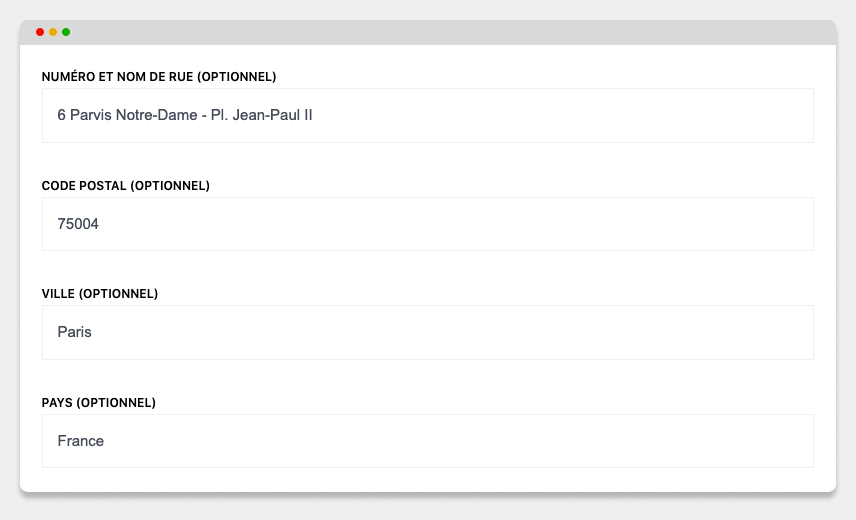
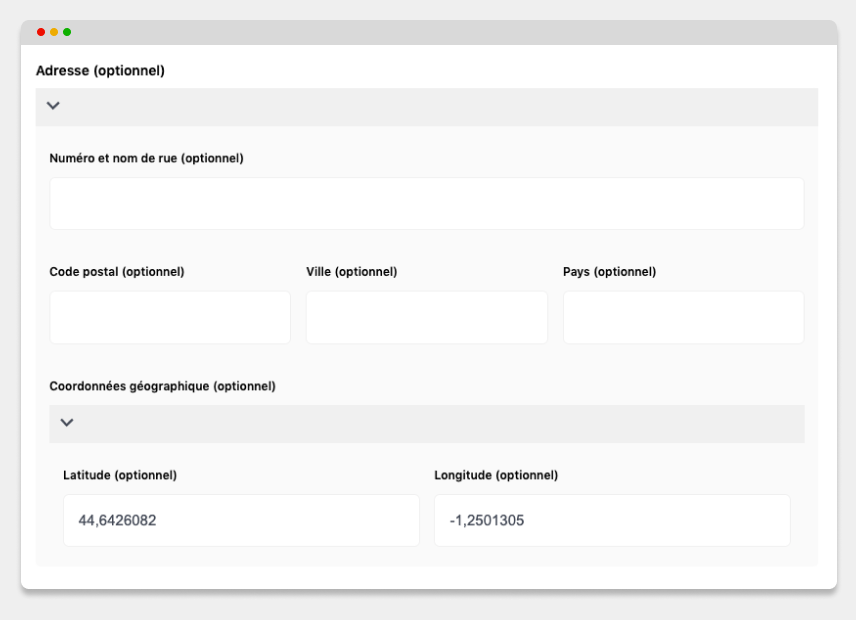
content

diff --git a/content/les-fonctionnalites/_index.md b/content/les-fonctionnalites/_index.md
@@ -2,27 +2,36 @@
 isPage: true
 draft: false
 title: Les fonctionnalités
-description: "Création du contenu : cabinets, personnes (agents, collaborateurs…), expertises métier, actualités…"
+description: "Création du contenu : agences, personnes (agents, collaborateurs…)."
 image:
   src: /images/uploads/147.Multitasking.svg
 hero:
   title: Les fonctionnalités
-  text: "Création du contenu : cabinets, personnes (agents, collaborateurs…), expertises métier, actualités…"
+  text: "Création du contenu : agences, personnes (agents, collaborateurs…)."
   image:
     src: /images/uploads/147.Multitasking.svg
 show_list: false
 blocks:
   - type: editorial
     direction: rtl
-    title: Présentation de l’agence
-    text: Lieu(x), contacts et informations.
+    title: Les annonces immobilières
+    text: Création de fiches détaillées (lieu, informations, diagnostic DPE et GES, galerie photos…).
     image:
       src: /images/uploads/174.Project.svg
     cta:
       text: En savoir plus
-      url: /les-fonctionnalites/cabinet/
+      url: /les-fonctionnalites/annonces-immobilieres/
   - type: editorial
     direction: ltr
+    title: Présentation de l’agence
+    text: Lieu(x), contacts et informations.
+    image:
+      src: /images/uploads/188.Buildings.svg
+    cta:
+      text: En savoir plus
+      url: /les-fonctionnalites/agence/
+  - type: editorial
+    direction: rtl
     title: Présentation de l’équipe
     text: Vous avez la possibilité de présenter chacun de vos collaborateurs…
     image:
@@ -30,31 +39,4 @@ blocks:
     cta:
       text: En savoir plus
       url: /les-fonctionnalites/equipe/
-  - type: editorial
-    direction: rtl
-    title: Les compétences et expertises de l’agence
-    text: Création de pages dédiées à vos compétences et expertises (droit pénal, du travail, de la famille…).
-    image:
-      src: /images/uploads/148.Strategy.svg
-    cta:
-      text: En savoir plus
-      url: /les-fonctionnalites/expertises/
-  - type: editorial
-    direction: ltr
-    title: Mettre en avant votre actualité et parutions presse
-    text: Partagez l’actualité de votre cabinet sous la forme d’un blog ou d’une liste de parutions.
-    image:
-      src: /images/uploads/144.Paperboy.svg
-    cta:
-      text: En savoir plus
-      url: /les-fonctionnalites/actualite-parutions/
-  - type: editorial
-    direction: rtl
-    title: Ventes aux enchères
-    text: Présentez les ventes immobilières dont le cabinet est responsable.
-    image:
-      src: /images/uploads/188.Buildings.svg
-    # cta:
-    #   text: En savoir plus
-    #   url: /les-fonctionnalites/ventes-immobilieres/
 ---

diff --git a/content/les-fonctionnalites/agence/_index.md b/content/les-fonctionnalites/agence/_index.md
@@ -4,24 +4,24 @@ draft: false
 title: Présentation de l’agence
 description: Lieu(x), contacts et informations.
 image:
-  src: /images/uploads/174.Project.svg
+  src: /images/uploads/188.Buildings.svg
 hero: 
   title: Présentation de l’agence
   text: Lieu(x), contacts et informations.
   image:
-    src: /images/uploads/174.Project.svg
+    src: /images/uploads/188.Buildings.svg
 ---
 
-## Création d’un ou plusieurs cabinets
-La solution vous permet de créer votre cabinet mais aussi d’en créer plusieurs si nécessaire. Vous pourrez ainsi présenter clairement tous les informations nécessaires et les contacts pour vous joindre.
+## Création d’une ou plusieurs agences
+La solution vous permet de créer votre agence mais aussi d’en créer plusieurs si nécessaire. Vous pourrez ainsi présenter clairement tous les informations nécessaires et les contacts pour vous joindre.
 
-{{< figure src="/images/uploads/admin-cabinets.png" legend="Dashboard des agences" >}}
+{{< figure src="/images/uploads/admin-agences.png" legend="Dashboard des agences" >}}
 
 ### Information générales
 Titre, description, image par défaut, contenu…\
 Voir ci-après le détail de l'édition de l’adresse et du contact.
 
-{{< figure src="/images/uploads/admin-cabinet.png" legend="Edition d’une agence" >}}
+{{< figure src="/images/uploads/admin-agence.png" legend="Edition d’une agence" >}}
 
 ### Adresse
 L’adresse postale en détail :
@@ -29,11 +29,12 @@ L’adresse postale en détail :
 * Code postal
 * Ville
 * Pays
+* Coordonnées
 
 {{< figure src="/images/uploads/admin-address.png" >}}
 
 ### Contact
-Vous pouvez ajouter différents types de contact pour votre cabinet, actuellement les champs de saisis possibles sont :
+Vous pouvez ajouter différents types de contact pour votre agence, actuellement les champs de saisis possibles sont :
 * Email  
 * Numéro de téléphone
 * Numéro de fax

diff --git a/content/les-avantages/eco-conception/_index.md b/content/les-avantages/eco-conception/_index.md
@@ -21,7 +21,7 @@ L'éco-conception d'un site Web peut améliorer l'expérience utilisateur en ré
 En adoptant une approche écologique pour son site Web, il est possible de réduire les coûts d'exploitation liés à l'hébergement et à la bande passante. Cela est possible en utilisant moins d'énergie et en réduisant les besoins en bande passante pour charger une page. Cela peut s'avérer très bénéfique pour les propriétaires de sites qui cherchent à maximiser leur rentabilité.
 
 ## Impact positif sur l'environnement
-Il va de soi que l'éco-conception d'un site Web a un impact positif sur l'environnement en réduisant les besoins en énergie et les émissions de gaz à effet de serre liées à son utilisation. C'est aussi un moyen de montrer une prise de responsabilité en termes de développement durable pour les cabinets qui veulent renforcer leur image de marque responsable.
+Il va de soi que l'éco-conception d'un site Web a un impact positif sur l'environnement en réduisant les besoins en énergie et les émissions de gaz à effet de serre liées à son utilisation. C'est aussi un moyen de montrer une prise de responsabilité en termes de développement durable pour les agences qui veulent renforcer leur image de marque responsable.
 
 ## Bonus de classement pour les moteurs de recherche
 De plus en plus, les moteurs de recherche sont sensibles aux enjeux environnementaux et sociaux, il est donc possible qu'une site Web ayant une approche écologique bénéficie d'un bonus de classement dans les résultats de recherche. Cela peut être un avantage considérable pour augmenter la visibilité et le trafic sur un site Web.

diff --git a/content/les-fonctionnalites/equipe/_index.md b/content/les-fonctionnalites/equipe/_index.md
@@ -13,22 +13,13 @@ hero:
 ---
 
 ## Création d’une personne
-La solution vous permet de créer l'intrégralité des personnes qui compose votre cabinet. Vos collaborateurs auront donc une fiche à leur nom sur le site Web.
+La solution vous permet de créer l'intrégralité des personnes qui compose votre agence. Vos collaborateurs auront donc une fiche à leur nom sur le site Web.
 
 {{< figure src="/images/uploads/admin-persons.png" legend="Dashboard de l’équipe" >}}
 
-### Choix du statut de la personne
-Associé, collaborateur, juriste, administratif…
-{{< figure src="/images/uploads/admin-persons-statutes.png" >}}
-
-### Choix de ou des expertises métiers
-Après avoir créé diffirentes expertises, vous pourrez l’associer à la personne pour croiser les informations et ainsi faire des passerelles entre chaques pages sur le site Web.
-
-{{< figure src="/images/uploads/admin-persons-expertises.png" >}}
-
-### Rattaché à un cabinet en particulier ?
+### Rattaché à une agence en particulier ?
 Si vous avez plusieurs lieux, vous pouvez associer une personne à ce lieu ou a plusieurs lieux.
-{{< figure src="/images/uploads/admin-persons-offices.png" >}}
+{{< figure src="/images/uploads/admin-persons-agences.png" >}}
 
 ### Ajout des contacts et liens Web
 Vous pouvez ajouter différents types de contact pour la personne, actuellement les champs de saisis possibles sont :

diff --git a/content/les-fonctionnalites/annonces-immobilieres/_index.md b/content/les-fonctionnalites/annonces-immobilieres/_index.md
@@ -1,0 +1,47 @@
+---
+isPage: true
+draft: false
+title: Annonces immobilières
+description: Création de fiches détaillées (lieu, informations, diagnostic DPE et GES, galerie photos…).
+image:
+  src: /images/uploads/174.Project.svg
+hero: 
+  title: Annonces immobilières
+  text: Création de fiches détaillées (lieu, informations, diagnostic DPE et GES, galerie photos…).
+  image:
+    src: /images/uploads/174.Project.svg
+---
+
+## Création d’une annonce immobilière
+
+{{< figure src="/images/uploads/admin-annonce.png" >}}
+
+### Informations
+Surface intérieur / extérieure, nombre de niveau, nombre de pièces, de chambres, de sale de bains / d’eau.
+
+{{< figure src="/images/uploads/admin-informations.png" >}}
+
+### Diagnostic
+Diagnostic de performance énergétique et gaz à effet de serre
+
+{{< figure src="/images/uploads/admin-diagnostic.png" >}}
+
+### Emplacement
+
+L’emplacement du bien (seule la zone sera affichée) :
+* Numéro et nom de rue  
+* Code postal
+* Ville
+* Pays
+* Coordonnées
+
+{{< figure src="/images/uploads/admin-address.png" >}}
+
+### Galerie photo
+
+{{< figure src="/images/uploads/admin-gallery.png" >}}
+
+## Type de bien
+Maison, appartement, boutique…
+
+{{< figure src="/images/uploads/admin-types.png" >}}

diff --git a/content/les-avantages/cms-oriente-metier/_index.md b/content/les-avantages/cms-oriente-metier/_index.md
@@ -17,8 +17,8 @@ hero:
 Voici quelques captures d’écran de l’espace admin Realestatify qui permet de mettre à jour votre contenu.
 
 {{< figure src="/images/uploads/admin-home.png" legend="Accueil" >}}
-{{< figure src="/images/uploads/admin-cabinets.png" legend="Cabinets" >}}
-{{< figure src="/images/uploads/admin-expertises.png" legend="Expertises" >}}
+{{< figure src="/images/uploads/admin-annonces.png" legend="Annonces" >}}
+{{< figure src="/images/uploads/admin-agences.png" legend="Agences" >}}
 
 ## Fonctionnalités
 Découvrez l’ensemble des fonctionnalités en détail, ainsi que d’autres captures d’écran.

diff --git a/content/casestudies/_index.md b/content/casestudies/_index.md
@@ -1,6 +1,6 @@
 ---
 isIndex: true
-draft: false
+draft: true
 title: Les études de cas
 url: etudes-de-cas
 description: Découvrez les migrations de site Web de nos clients que nous avons réalisés.
